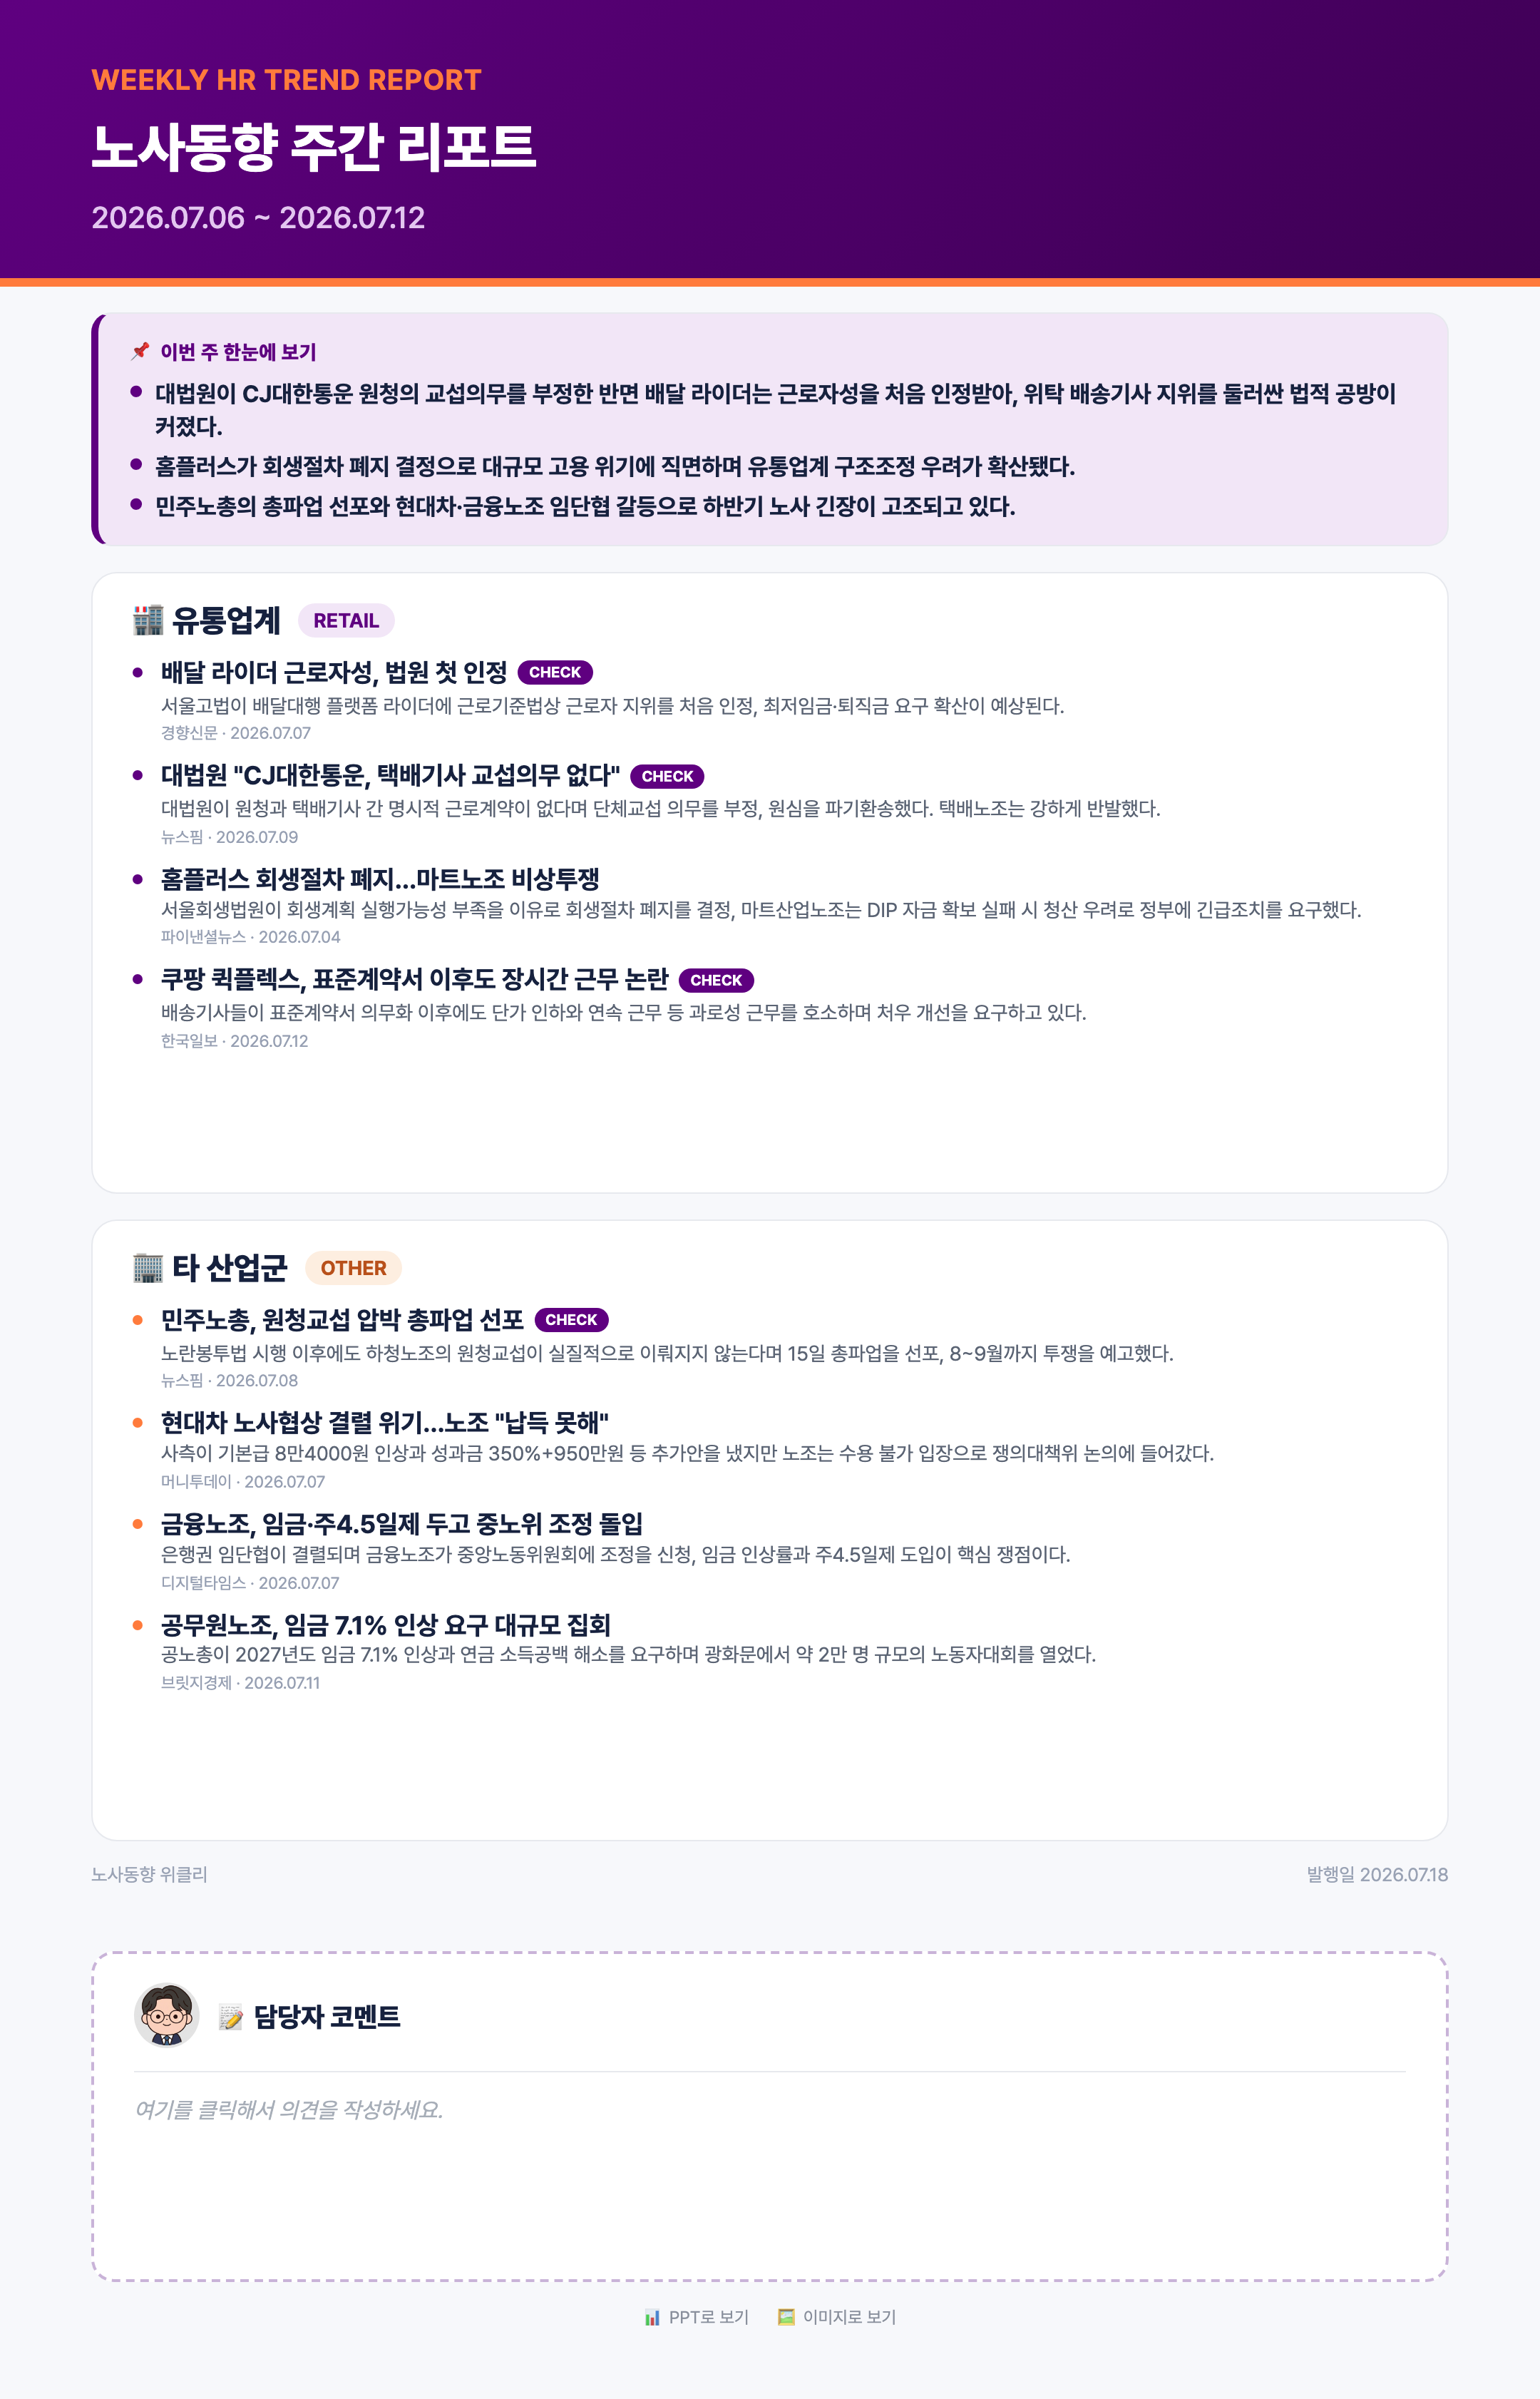
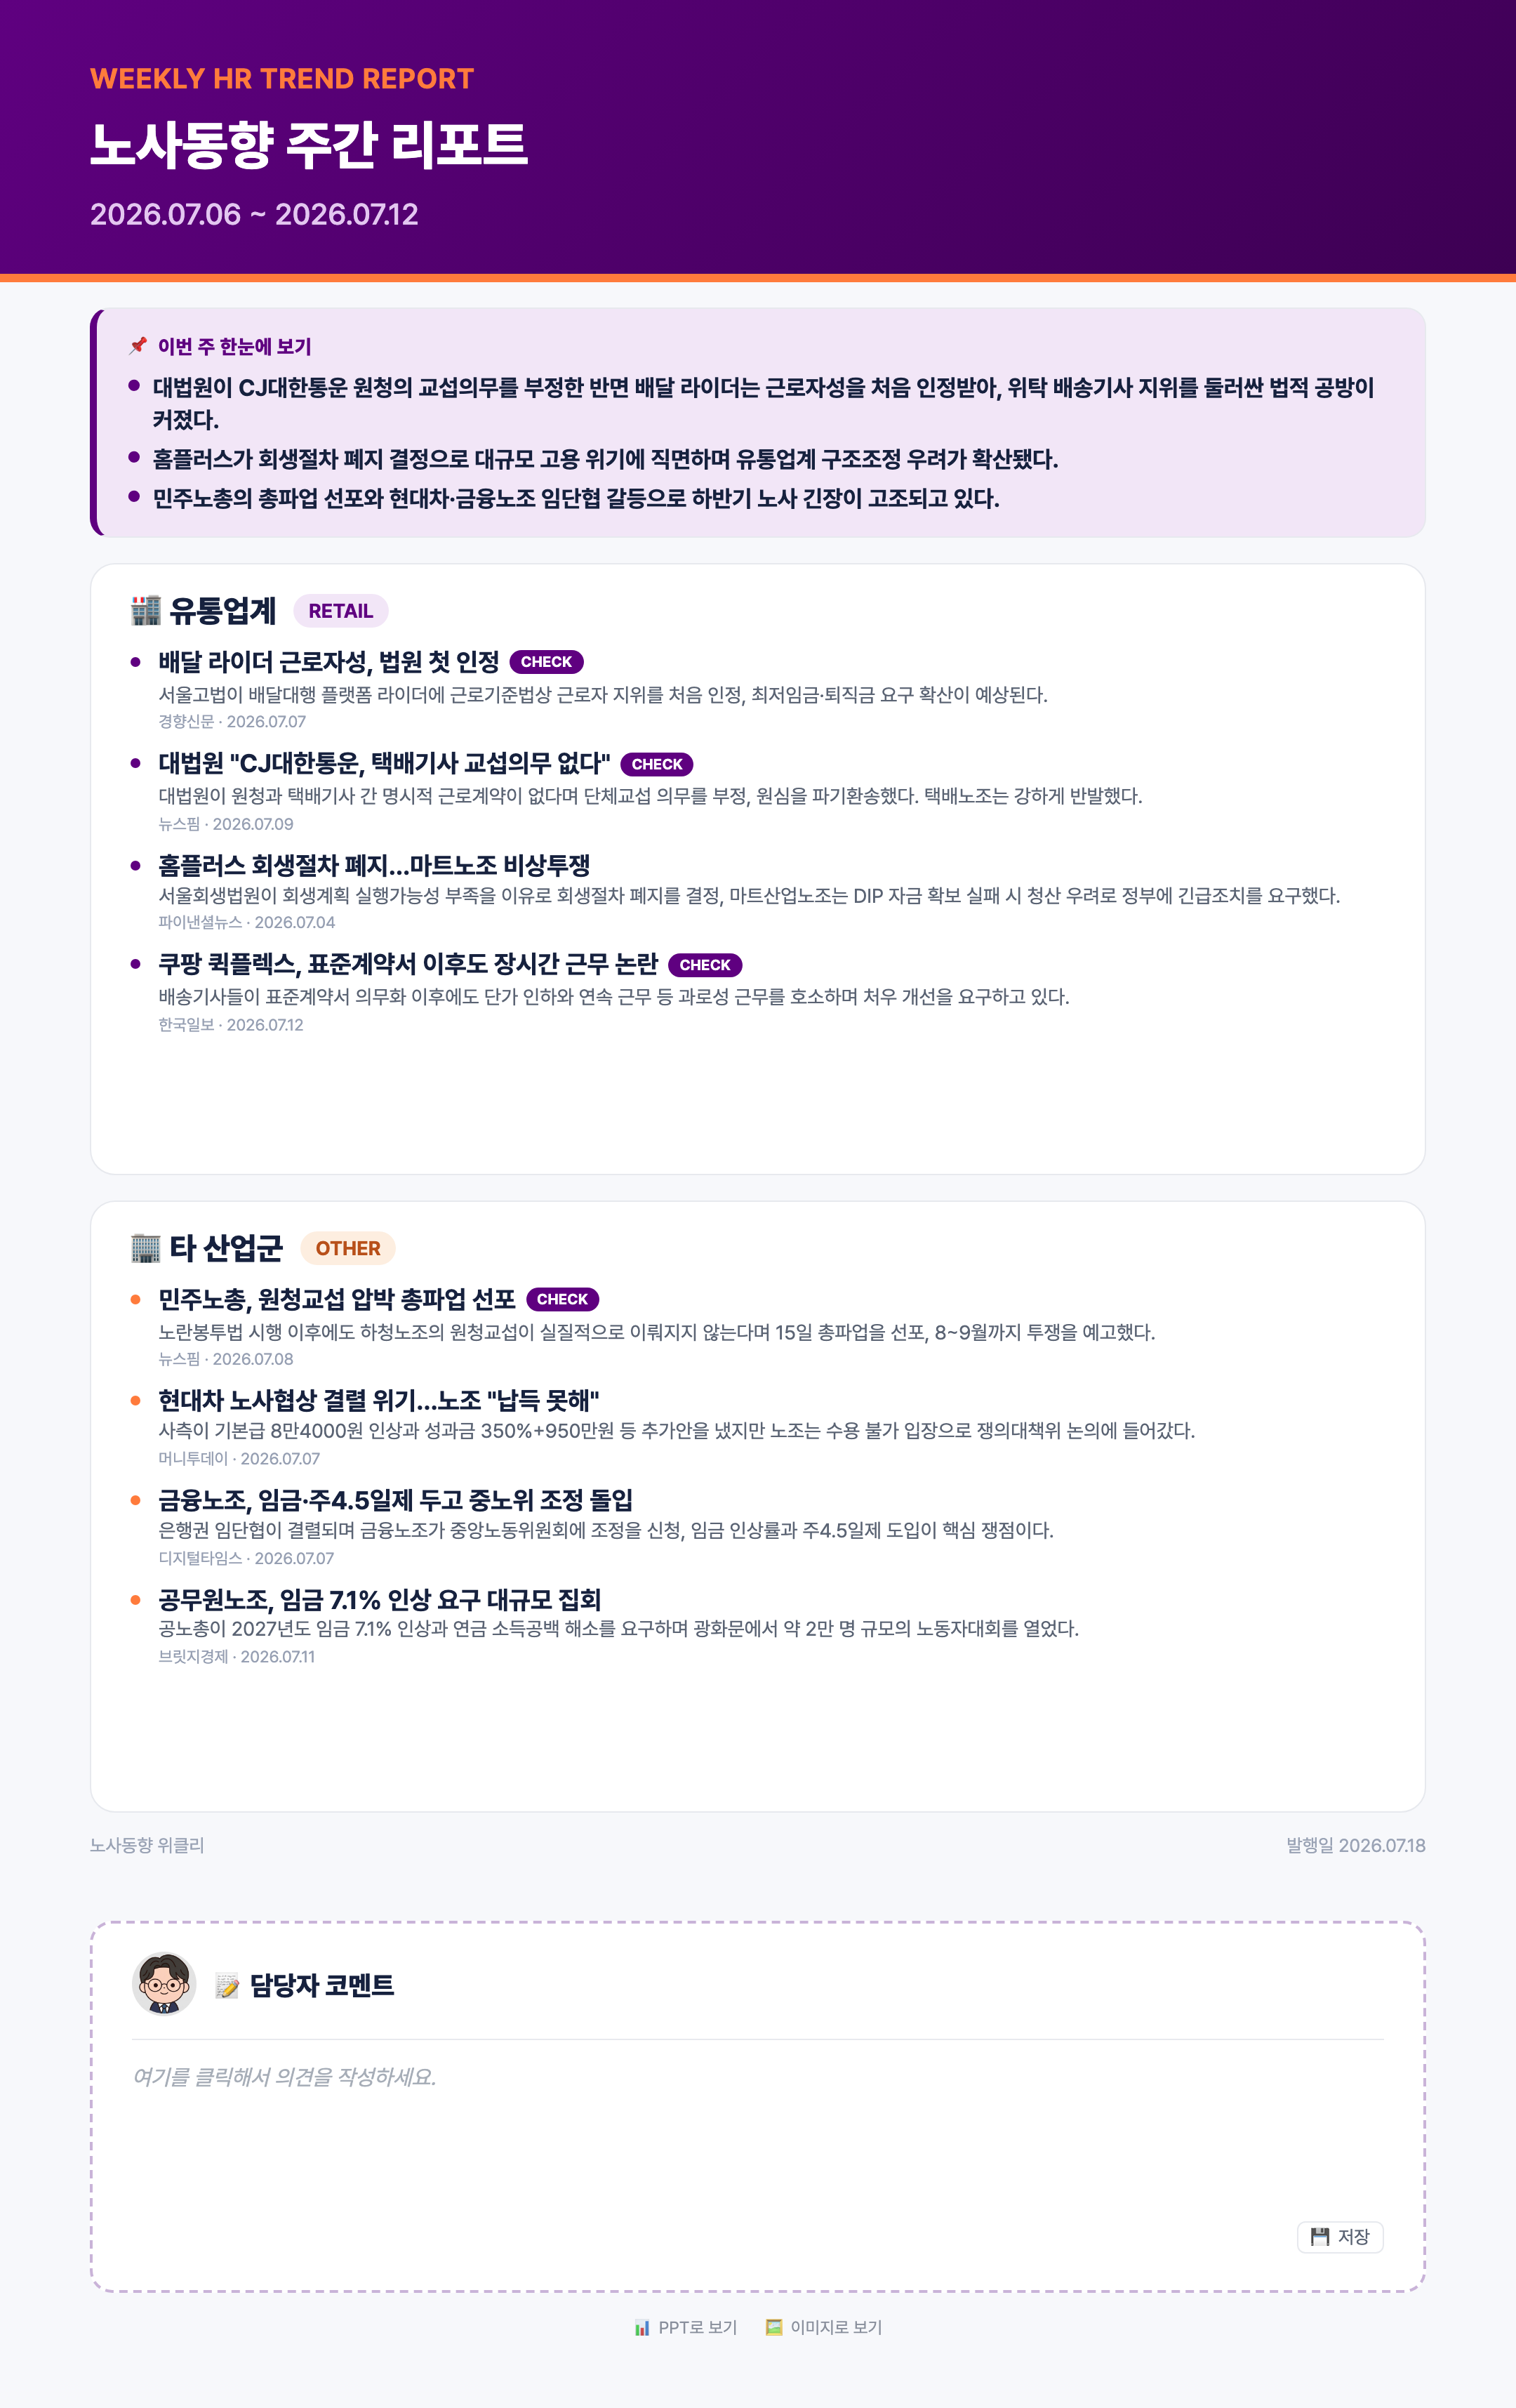
Add real save button for the 담당자 코멘트 box (GitHub-backed persistence)
contenteditable alone never persisted anything -- typed text vanished
on reload since this is a static site with no backend. Added
reports/assets/save-comment.js: a small "저장" button that, on click,
authenticates with a GitHub fine-grained PAT (prompted once, kept only
in that browser's localStorage) and commits the comment text straight
into that report's opinion-content via the GitHub Contents API. Wired
into the template and both existing reports, and documented in
/weekly-report so every future report ships with it too.

diff --git a/reports/assets/save-comment.js b/reports/assets/save-comment.js
@@ -1,0 +1,102 @@
+/*
+ * 담당자 코멘트 저장 버튼.
+ *
+ * 이 사이트는 백엔드 서버가 없는 정적 GitHub Pages라, "저장"이 실제로
+ * 영구 반영되려면 브라우저에서 곧바로 GitHub API를 호출해 그 리포트
+ * HTML 파일을 커밋하는 수밖에 없다. 그러려면 이 저장소에 쓰기 권한이
+ * 있는 사용자의 GitHub 토큰이 필요하다 (fine-grained PAT, 이 저장소에만
+ * Contents: Read and write 권한). 그 토큰은 절대 서버로 전송되지 않고
+ * 이 브라우저의 localStorage에만 저장되며, api.github.com 호출에만
+ * 쓰인다.
+ */
+(function () {
+  const REPO = "byungwoo135/nosa-trend-weekly";
+  const API = "https://api.github.com";
+  const TOKEN_KEY = "nosa_gh_pat";
+
+  function b64EncodeUtf8(str) {
+    return btoa(unescape(encodeURIComponent(str)));
+  }
+  function b64DecodeUtf8(b64) {
+    return decodeURIComponent(escape(atob(b64.replace(/\n/g, ""))));
+  }
+  function escapeHtml(str) {
+    return str.replace(/&/g, "&amp;").replace(/</g, "&lt;").replace(/>/g, "&gt;");
+  }
+
+  async function saveComment() {
+    const path = window.__NOSA_REPORT_PATH;
+    const contentEl = document.querySelector(".opinion-content");
+    const btn = document.querySelector(".opinion-save-btn");
+    const statusEl = document.querySelector(".opinion-save-status");
+    if (!path || !contentEl || !btn || !statusEl) return;
+
+    let token = localStorage.getItem(TOKEN_KEY);
+    if (!token) {
+      token = window.prompt(
+        "GitHub 토큰이 필요합니다 (이 저장소 Contents 쓰기 권한이 있는 fine-grained PAT).\n" +
+          "한 번만 입력하면 이 브라우저에 저장되어 다음부터는 묻지 않습니다."
+      );
+      if (!token) return;
+      token = token.trim();
+      localStorage.setItem(TOKEN_KEY, token);
+    }
+
+    const commentText = contentEl.innerText.replace(/\n{3,}/g, "\n\n").trim();
+    const originalLabel = btn.textContent;
+    btn.disabled = true;
+    btn.textContent = "⏳";
+    statusEl.textContent = "";
+
+    try {
+      const getRes = await fetch(`${API}/repos/${REPO}/contents/${path}`, {
+        headers: { Authorization: `Bearer ${token}`, Accept: "application/vnd.github+json" },
+      });
+      if (!getRes.ok) throw new Error(`파일 조회 실패 (${getRes.status})`);
+      const fileData = await getRes.json();
+      const currentSource = b64DecodeUtf8(fileData.content);
+
+      const marker = /(<div class="opinion-content"[^>]*>)([\s\S]*?)(<\/div>)/;
+      if (!marker.test(currentSource)) throw new Error("코멘트 영역을 찾지 못했습니다");
+      const newSource = currentSource.replace(marker, (_, open, _old, close) => {
+        return open + escapeHtml(commentText) + close;
+      });
+
+      const putRes = await fetch(`${API}/repos/${REPO}/contents/${path}`, {
+        method: "PUT",
+        headers: {
+          Authorization: `Bearer ${token}`,
+          Accept: "application/vnd.github+json",
+          "Content-Type": "application/json",
+        },
+        body: JSON.stringify({
+          message: `담당자 코멘트 업데이트 (${path})`,
+          content: b64EncodeUtf8(newSource),
+          sha: fileData.sha,
+          branch: "main",
+        }),
+      });
+      if (!putRes.ok) {
+        const err = await putRes.json().catch(() => ({}));
+        if (putRes.status === 401 || putRes.status === 403) {
+          localStorage.removeItem(TOKEN_KEY);
+        }
+        throw new Error(err.message || `저장 실패 (${putRes.status})`);
+      }
+
+      statusEl.textContent = "✓ 저장됨";
+      statusEl.style.color = "#0e7c66";
+    } catch (err) {
+      statusEl.textContent = "✗ " + err.message;
+      statusEl.style.color = "#c0392b";
+    } finally {
+      btn.disabled = false;
+      btn.textContent = originalLabel;
+      setTimeout(() => {
+        statusEl.textContent = "";
+      }, 5000);
+    }
+  }
+
+  window.__nosaSaveComment = saveComment;
+})();

diff --git a/reports/2026-07-06_2026-07-12.html b/reports/2026-07-06_2026-07-12.html
@@ -259,6 +259,29 @@
     color: #a7aeb8;
     font-style: italic;
   }
+  .opinion-save-row {
+    display: flex;
+    justify-content: flex-end;
+    align-items: center;
+    gap: 8px;
+    margin-top: 10px;
+  }
+  .opinion-save-btn {
+    font-size: 13px;
+    line-height: 1;
+    padding: 4px 9px;
+    border-radius: 6px;
+    border: 1px solid var(--line);
+    background: #fff;
+    color: var(--sub);
+    cursor: pointer;
+  }
+  .opinion-save-btn:hover { background: var(--retail-bg); color: var(--purple); border-color: var(--retail-bg); }
+  .opinion-save-btn:disabled { opacity: 0.6; cursor: default; }
+  .opinion-save-status {
+    font-size: 11px;
+    color: var(--sub);
+  }
 </style>
 </head>
 <body>
@@ -378,11 +401,17 @@
         <div class="opinion-title">📝 담당자 코멘트</div>
       </div>
       <div class="opinion-content" data-placeholder="여기를 클릭해서 의견을 작성하세요."></div>
+      <div class="opinion-save-row">
+        <span class="opinion-save-status"></span>
+        <button type="button" class="opinion-save-btn" onclick="window.__nosaSaveComment()" title="이 코멘트를 저장">💾 저장</button>
+      </div>
     </div>
   </div>
   <div class="export-links-row">
     <a class="export-link" href="2026-07-06_2026-07-12.pptx">📊 PPT로 보기</a>
     <a class="export-link" href="2026-07-06_2026-07-12_full.png">🖼️ 이미지로 보기</a>
   </div>
+  <script>window.__NOSA_REPORT_PATH = "reports/2026-07-06_2026-07-12.html";</script>
+  <script src="assets/save-comment.js"></script>
 </body>
 </html>

diff --git a/reports/2026-07-13_2026-07-19.html b/reports/2026-07-13_2026-07-19.html
@@ -259,6 +259,29 @@
     color: #a7aeb8;
     font-style: italic;
   }
+  .opinion-save-row {
+    display: flex;
+    justify-content: flex-end;
+    align-items: center;
+    gap: 8px;
+    margin-top: 10px;
+  }
+  .opinion-save-btn {
+    font-size: 13px;
+    line-height: 1;
+    padding: 4px 9px;
+    border-radius: 6px;
+    border: 1px solid var(--line);
+    background: #fff;
+    color: var(--sub);
+    cursor: pointer;
+  }
+  .opinion-save-btn:hover { background: var(--retail-bg); color: var(--purple); border-color: var(--retail-bg); }
+  .opinion-save-btn:disabled { opacity: 0.6; cursor: default; }
+  .opinion-save-status {
+    font-size: 11px;
+    color: var(--sub);
+  }
 </style>
 </head>
 <body>
@@ -383,11 +406,17 @@
         <div class="opinion-title">📝 담당자 코멘트</div>
       </div>
       <div class="opinion-content" data-placeholder="여기를 클릭해서 의견을 작성하세요."></div>
+      <div class="opinion-save-row">
+        <span class="opinion-save-status"></span>
+        <button type="button" class="opinion-save-btn" onclick="window.__nosaSaveComment()" title="이 코멘트를 저장">💾 저장</button>
+      </div>
     </div>
   </div>
   <div class="export-links-row">
     <a class="export-link" href="2026-07-13_2026-07-19.pptx">📊 PPT로 보기</a>
     <a class="export-link" href="2026-07-13_2026-07-19_full.png">🖼️ 이미지로 보기</a>
   </div>
+  <script>window.__NOSA_REPORT_PATH = "reports/2026-07-13_2026-07-19.html";</script>
+  <script src="assets/save-comment.js"></script>
 </body>
 </html>

diff --git a/reports/_template.html b/reports/_template.html
@@ -276,6 +276,29 @@
     color: #a7aeb8;
     font-style: italic;
   }
+  .opinion-save-row {
+    display: flex;
+    justify-content: flex-end;
+    align-items: center;
+    gap: 8px;
+    margin-top: 10px;
+  }
+  .opinion-save-btn {
+    font-size: 13px;
+    line-height: 1;
+    padding: 4px 9px;
+    border-radius: 6px;
+    border: 1px solid var(--line);
+    background: #fff;
+    color: var(--sub);
+    cursor: pointer;
+  }
+  .opinion-save-btn:hover { background: var(--retail-bg); color: var(--purple); border-color: var(--retail-bg); }
+  .opinion-save-btn:disabled { opacity: 0.6; cursor: default; }
+  .opinion-save-status {
+    font-size: 11px;
+    color: var(--sub);
+  }
 </style>
 </head>
 <body>
@@ -389,11 +412,17 @@
         <div class="opinion-title">📝 담당자 코멘트</div>
       </div>
       <div class="opinion-content" data-placeholder="여기를 클릭해서 의견을 작성하세요."></div>
+      <div class="opinion-save-row">
+        <span class="opinion-save-status"></span>
+        <button type="button" class="opinion-save-btn" onclick="window.__nosaSaveComment()" title="이 코멘트를 저장">💾 저장</button>
+      </div>
     </div>
   </div>
   <div class="export-links-row">
     <a class="export-link" href="{{REPORT_FILENAME_BASE}}.pptx">📊 PPT로 보기</a>
     <a class="export-link" href="{{REPORT_FILENAME_BASE}}_full.png">🖼️ 이미지로 보기</a>
   </div>
+  <script>window.__NOSA_REPORT_PATH = "reports/{{REPORT_FILENAME_BASE}}.html";</script>
+  <script src="assets/save-comment.js"></script>
 </body>
 </html>

diff --git a/README.md b/README.md
@@ -4,21 +4,26 @@
 
 ## 구조
 - `index.html` — 발행된 리포트 아카이브 갤러리
-- `reports/` — 주차별 `{start}_{end}.html` / `.png` / `.pptx` / `.json`
+- `reports/` — 주차별 `{start}_{end}.html` / `.png` / `_full.png` / `.pptx` / `.json`
 - `reports/_template.html` — 카드뉴스 디자인 템플릿 (1080×1350 고정)
-- `scripts/capture.py` — HTML → PNG 캡처 스크립트 (Playwright)
+- `reports/assets/avatar.jpg` — 담당자 코멘트 박스에 쓰이는 아바타 사진 (모든 리포트 공유)
+- `reports/assets/save-comment.js` — 담당자 코멘트 "💾 저장" 버튼 스크립트 (모든 리포트 공유, 아래 참고)
+- `scripts/capture.py` — HTML → PNG 캡처 스크립트 (Playwright, 카드 전용/전체 페이지 두 모드)
 - `scripts/make_pptx.py` — JSON → 편집 가능한 PPT(.pptx) 생성 스크립트 (python-pptx)
 - `.claude/commands/weekly-report.md` — 검색부터 발행까지 전체 절차를 담은 슬래시 커맨드
 
 ## 로컬 환경
 ```bash
 python3 -m venv .venv
-./.venv/bin/pip install playwright python-pptx
+./.venv/bin/pip install playwright python-pptx Pillow
 ./.venv/bin/playwright install chromium
 ```
+
+## 담당자 코멘트 저장 (💾 저장 버튼)
+이 사이트는 백엔드가 없는 정적 GitHub Pages라, 코멘트를 "저장"해서 모두에게 영구 반영하려면 브라우저에서 곧바로 GitHub API로 그 리포트 파일을 커밋하는 수밖에 없다. 그래서 각 리포트 페이지의 저장 버튼을 처음 누르면 이 저장소에 쓰기 권한이 있는 GitHub fine-grained PAT(Contents: Read and write, 이 저장소로 범위 한정)를 한 번 물어보고, 이후에는 그 브라우저의 localStorage에 저장되어 다시 묻지 않는다. 토큰은 서버로 전송되지 않고 오직 이 브라우저에서 api.github.com 호출에만 쓰인다.
 
 ## 수동 실행
 Claude Code에서 이 저장소 루트를 열고 `/weekly-report` 실행.
 
 ## 자동 실행
-매주 일요일 18:00(Asia/Seoul)에 `/weekly-report`를 실행하는 예약 작업으로 등록되어 있음.
+매주 일요일 18:00(Asia/Seoul)에 `/weekly-report`를 실행하는 예약 작업으로 등록되어 있음. `.claude/settings.local.json`(gitignore됨)에 이 자동화가 쓰는 도구 권한을 미리 allow해둬서 사람 없이도 승인 프롬프트 없이 끝까지 진행된다.

diff --git a/.claude/commands/weekly-report.md b/.claude/commands/weekly-report.md
@@ -125,18 +125,24 @@ EOF
         <div class="opinion-title">📝 담당자 코멘트</div>
       </div>
       <div class="opinion-content" data-placeholder="여기를 클릭해서 의견을 작성하세요."></div>
+      <div class="opinion-save-row">
+        <span class="opinion-save-status"></span>
+        <button type="button" class="opinion-save-btn" onclick="window.__nosaSaveComment()" title="이 코멘트를 저장">💾 저장</button>
+      </div>
     </div>
   </div>
   ```
-  아바타는 `reports/assets/avatar.jpg`(사용자가 지정한 실제 사진, 정사각형으로 잘라둔 것)를 그대로 참조한다 — 새로 그리거나 대체하지 않는다. `opinion-content`는 매주 항상 빈 상태로 발행한다 (내용을 임의로 채우지 않는다). `contenteditable="true"`라 페이지에서 바로 타이핑할 수 있지만, 정적 사이트라 새로고침하면 사라진다 — 실제로 영구히 남기려면 사람이 HTML 파일을 직접 고쳐서 커밋하거나(비개발자에게는 번거로움), PPT 버전(`.pptx`)을 열어 코멘트 슬라이드에 적는 편이 훨씬 쉽다.
+  아바타는 `reports/assets/avatar.jpg`(사용자가 지정한 실제 사진, 정사각형으로 잘라둔 것)를 그대로 참조한다 — 새로 그리거나 대체하지 않는다. `opinion-content`는 매주 항상 빈 상태로 발행한다 (내용을 임의로 채우지 않는다). `contenteditable="true"`라 페이지에서 바로 타이핑할 수 있고, 옆의 "💾 저장" 버튼을 누르면 `reports/assets/save-comment.js`가 GitHub API로 그 리포트 HTML 파일의 `opinion-content`를 실제로 커밋해 영구 반영한다 (처음 누르면 브라우저가 이 저장소 쓰기 권한이 있는 GitHub fine-grained PAT를 한 번 물어보고, 이후엔 그 브라우저에 저장돼 다시 묻지 않는다). 이 버튼/스크립트는 절대 생략하지 않는다.
 - 그다음(담당자 코멘트 영역 **아래**) 내보내기 링크 행을 추가한다. 배경색·필박스 없이 흐린 회색 글자로, 문구에 "다운로드"라는 단어는 절대 쓰지 않는다:
   ```html
   <div class="export-links-row">
     <a class="export-link" href="{{REPORT_FILENAME_BASE}}.pptx">📊 PPT로 보기</a>
     <a class="export-link" href="{{REPORT_FILENAME_BASE}}_full.png">🖼️ 이미지로 보기</a>
   </div>
+  <script>window.__NOSA_REPORT_PATH = "reports/{{REPORT_FILENAME_BASE}}.html";</script>
+  <script src="assets/save-comment.js"></script>
   ```
-  `.card`, `.opinion-section`, `.export-links-row` 모두 PNG 카드 캡처 밖에 있다 (전체 페이지 캡처에는 포함됨, STEP 6 참고).
+  `window.__NOSA_REPORT_PATH`는 `</body>` 바로 앞, `save-comment.js`를 불러오기 전에 반드시 그 주 파일 경로로 채워 넣는다 — 이 값이 저장 버튼이 실제로 커밋할 대상 파일이다. `.card`, `.opinion-section`, `.export-links-row` 모두 PNG 카드 캡처 밖에 있다 (전체 페이지 캡처에는 포함됨, STEP 6 참고).
 
 완성된 HTML을 `reports/{SLUG}.html`로 저장한다.
 